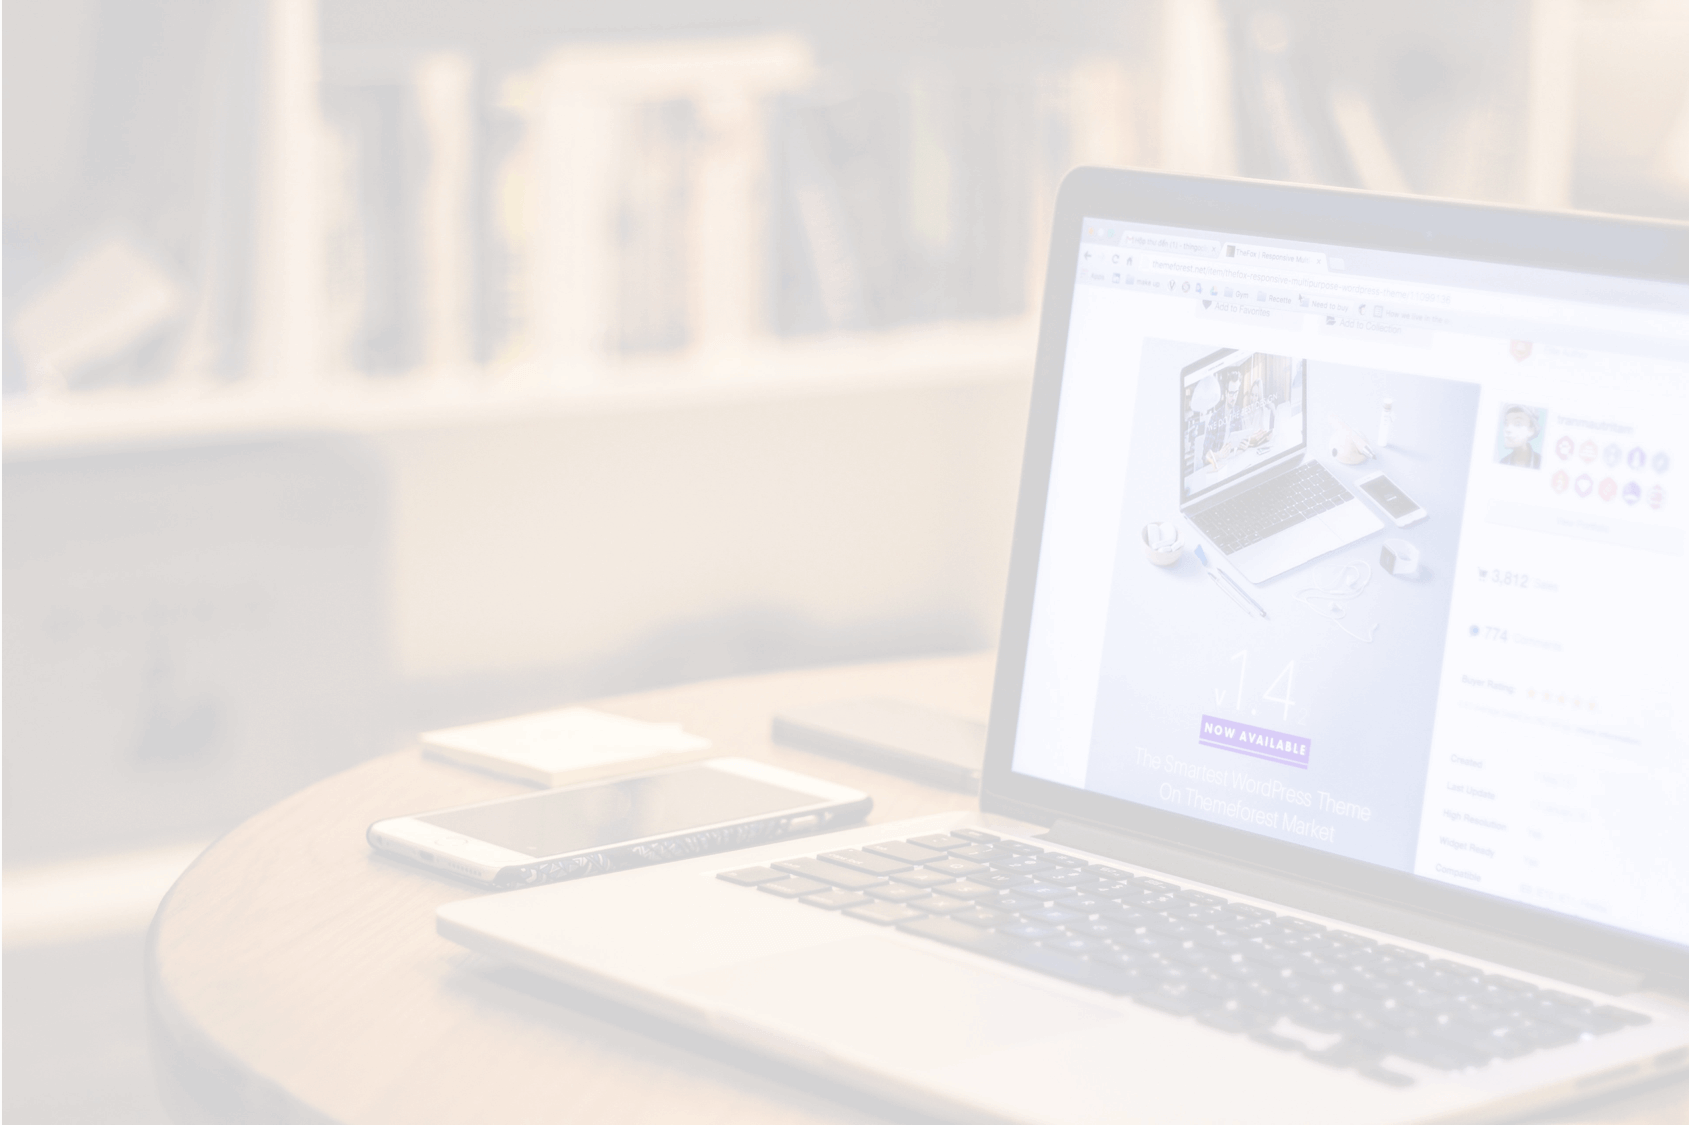
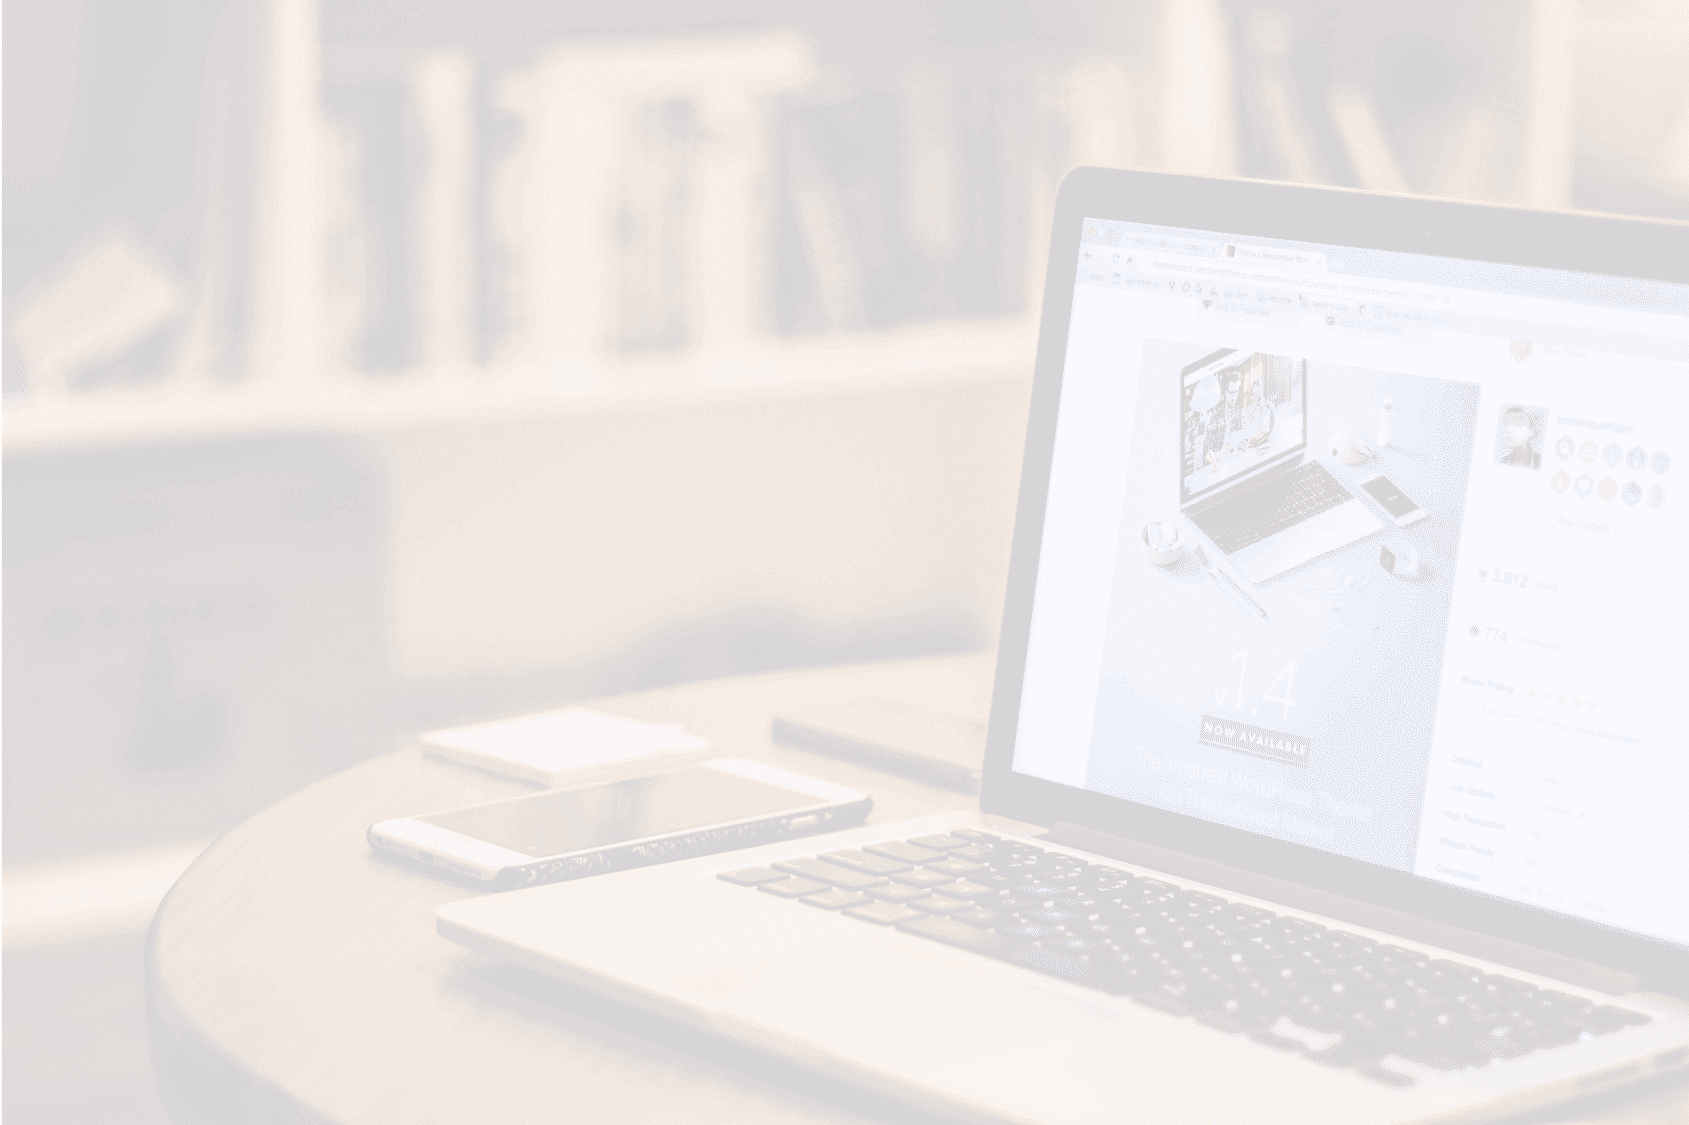
Images for ios

Changed region(s): [[0.7081, 0.4356, 0.862, 0.7778], [0.9236, 0.2489, 1.0, 0.28], [0.862, 0.3422, 0.8928, 0.3733]]

diff --git a/src/components/PageStructure/PageStructure.tsx b/src/components/PageStructure/PageStructure.tsx
@@ -4,13 +4,18 @@ import Grid from "@material-ui/core/Grid";
 import "./PageStructure.scss";
 import { Card } from "./components/Card";
 import { Pages } from "./../../routes/routes.interface";
+import { isSafari } from '../../utils/utils'
 import projectBkg from "./../../styles/assets/projects_bck.webp"
 import postBkg from "./../../styles/assets/post_bck.webp"
+import projectBkgPng from "./../../styles/assets/projects_bck.png"
+import postBkgPng from "./../../styles/assets/post_bck.png"
 
 export const PageStructure = (page: Pages) => (props: any) => {
 
   const backgroundStyle = {
-    backgroundImage:`url(${page === Pages.Projects ? projectBkg : postBkg})` 
+    backgroundImage: !isSafari() ?
+      `url(${page === Pages.Projects ? projectBkg : postBkg})` :
+      `url(${page === Pages.Projects ? projectBkgPng : postBkgPng})` 
   };
 
   return (

diff --git a/src/utils/utils.ts b/src/utils/utils.ts
@@ -1,1 +1,3 @@
 export const openNewTab = (url: string = '') => () => window.open(url, '_blank')
+
+export const isSafari = () => /^((?!chrome|android).)*safari/i.test(navigator.userAgent)
